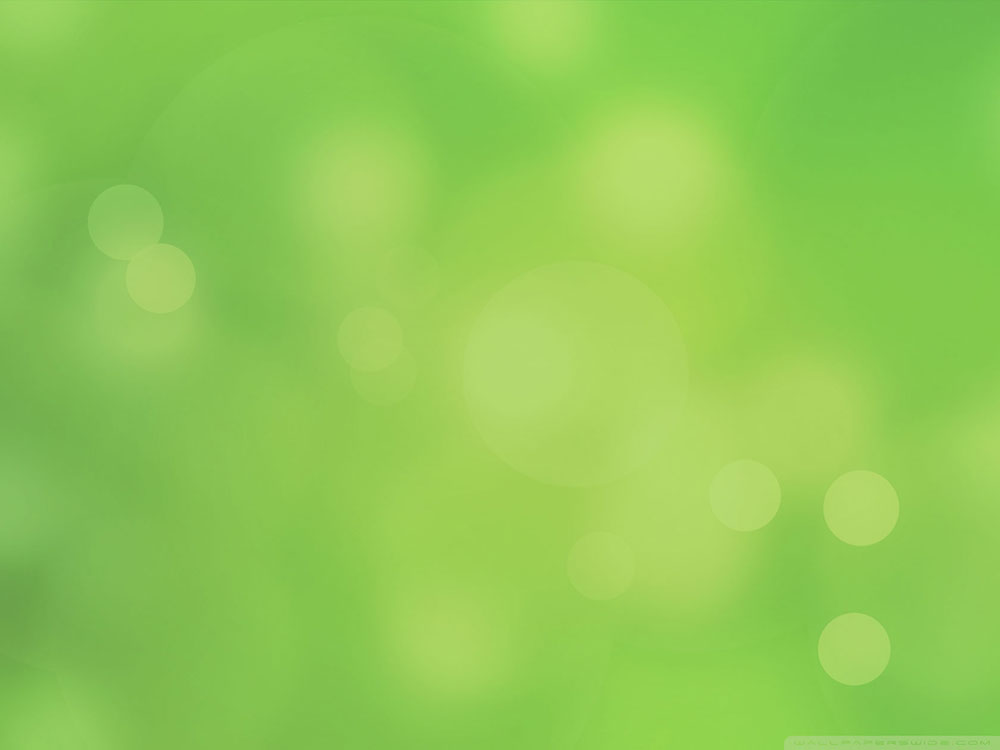
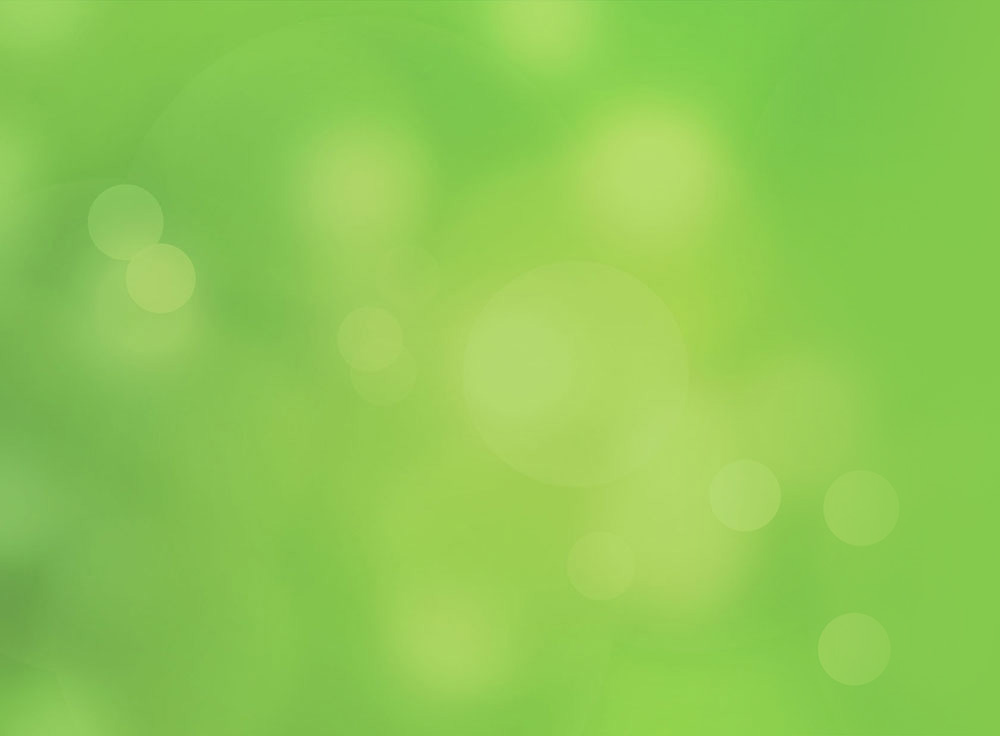
new jumbotron design

diff --git a/index.html b/index.html
@@ -4,12 +4,13 @@
     <title>Node.app &mdash; Node.js for iOS</title>
     <meta name="viewport" content="width=device-width, initial-scale=1.0">
     <link rel="stylesheet" href="//netdna.bootstrapcdn.com/bootstrap/3.0.0/css/bootstrap.min.css">
+    <link href='http://fonts.googleapis.com/css?family=Lato:300,400,700' rel='stylesheet' type='text/css'>
     <style type="text/css">
       body {
-        padding-top: 20px;
         padding-bottom: 20px;
         background: #fff;
         color: #2d2d25;
+        font-family: Lato, sans-serif;
       }
       a, a:hover, a:active {
         color: #480;
@@ -20,16 +21,16 @@
       }
       .header {
         border-radius: 6px;
-        height: 150px;
+        height: 75px;
+        margin-bottom: 0;
       }
       .header h3 {
-        height: 150px;
-        max-width: 400px;
-        margin: 0 auto;
+        height: 75px;
+        max-width: 200px;
+        margin: 10px auto;
         background: url("banner.png") no-repeat center;
         background-size: 100%;
         line-height: 40px;
-        padding-bottom: 19px;
         text-indent: -9999px;
       }
       .btn#subscribe {
@@ -53,9 +54,22 @@
         margin: 30px 0;
       }
       .jumbotron {
+        padding: 10% 0 5% 0;
         text-align: center;
-        background: #8CC84B;
+        background: #84c94c;
         border-bottom: 1px solid #e5e5e5;
+      }
+      .jumbotron h1 {
+        font-weight: lighter;
+        word-spacing: .08em;
+        color: #fff;
+        text-transform: uppercase;
+      }
+      .jumbotron h1 b {
+        font-weight: normal;
+      }
+      .jumbotron p.lead {
+        margin-bottom: 5%;
       }
       .jumbotron a {
         color: #2d2d25;
@@ -112,24 +126,21 @@
         .jumbotron {
           border-bottom: 0;
           background-image: url(green.jpg);
-          background-size: 100%;
+          background-repeat: no-repeat;
         }
       }
     </style>
   </head>
   <body>
-    <div class="container">
-      <div class="header">
-        <h3 class="text-muted">Node.app</h3>
-      </div>
-      <div class="row jumbotron">
-        <div class="col-lg-12">
-          <h1>Node.js for iOS</h1>
-          <p class="lead">Enable maximum code reuse and rapid innovation using this low-footprint, Node.js-compatible JavaScript API for your mobile apps.</p>
+    <div class="jumbotron">
+        <div class="container">
+          <h1><b>Node.js</b> for <b>iOS</b></h1>
+          <p class="lead"><b>Node.app</b> is a low-footprint, Node.js-compatible JavaScript API for your mobile apps.</p>
           <p><a class="btn btn-lg btn-primary" href="http://eepurl.com/HgqLj" id="subscribe">Interested? Subscribe and we'll keep you updated!</a></p>
-          <p> or <a href="//github.com/node-app/Interpreter">visit on GitHub</a></p>
+          <p> or <a href="//github.com/node-app/Interpreter">visit us on GitHub</a></p>
         </div>
-      </div>
+    </div>
+    <div class="container">
       <div class="row marketing">
         <div class="col-lg-3" id="marketing-reuse">
           <h4>Code Reuse</h4>
